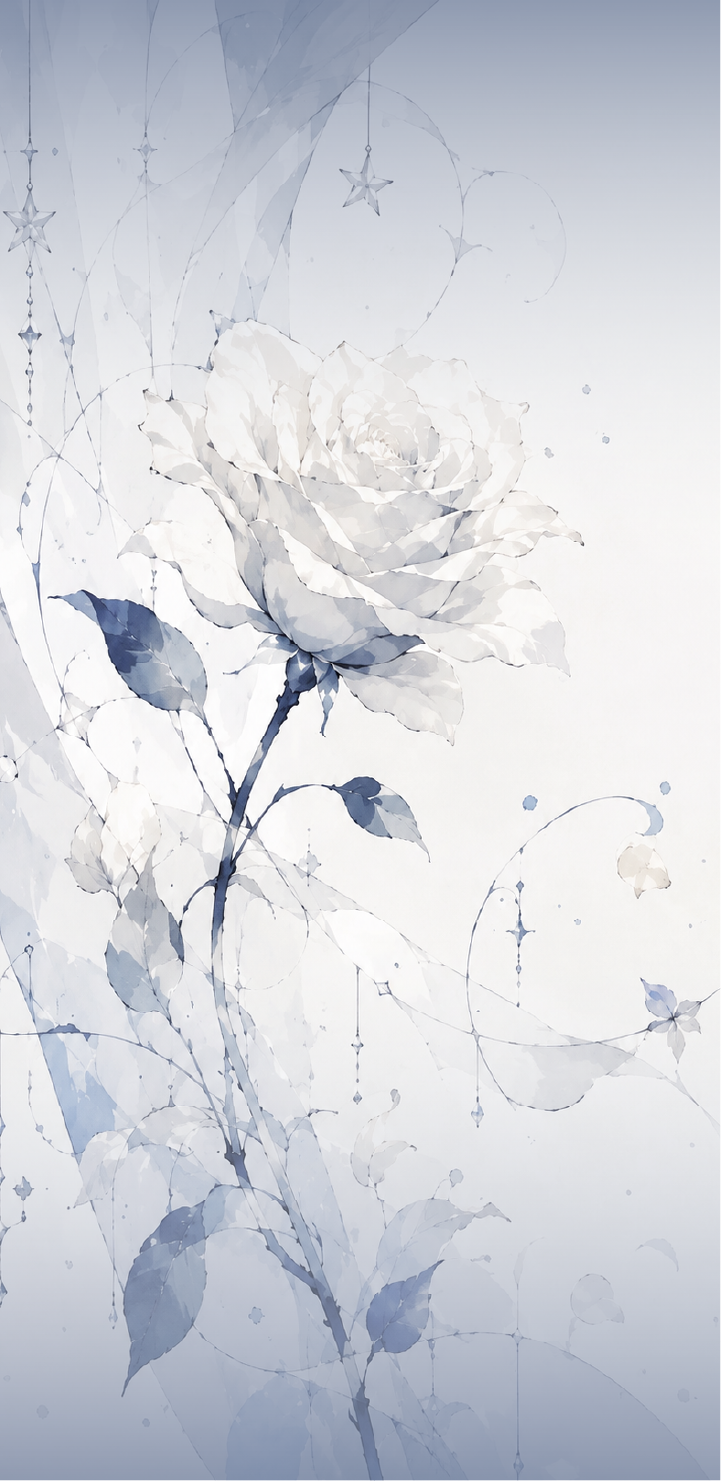
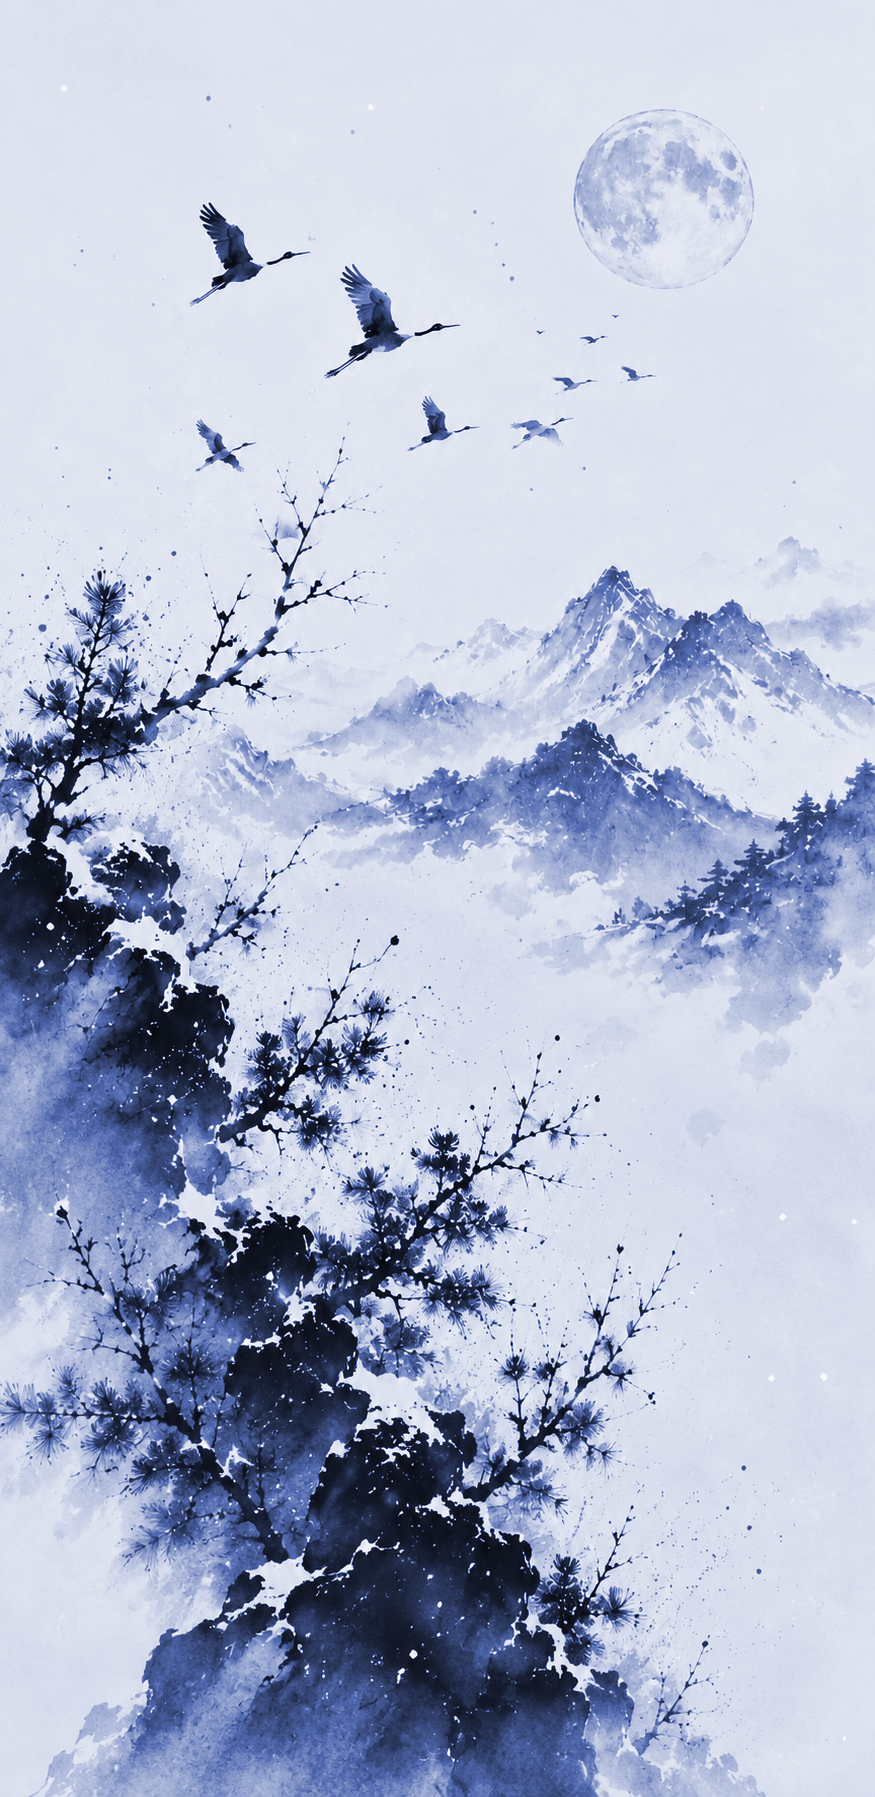
feat: refine EPUB layout and Windows packaging

diff --git a/src/ui-b/ui-b.css b/src/ui-b/ui-b.css
@@ -236,12 +236,12 @@
 .ui-b .empty-shelf:hover { border-color: var(--b-accent); background: var(--b-surface); }
 
 /* Reader workspace */
-.ui-b .reader-view { background: transparent; color: var(--b-ink); grid-template-rows: 54px minmax(0, 1fr); }
+.ui-b .reader-view { --reader-toolbar-height: 54px; background: transparent; color: var(--b-ink); grid-template-rows: minmax(var(--reader-toolbar-height), var(--reader-toolbar-height)) minmax(0, 1fr); }
 /* 沉浸模式工具栏不渲染，阅读区必须占满唯一一行；
    否则会沿用上面的 54px 首行，正文被压成顶部一条矮条（全屏文字消失的病根）。 */
 .ui-b .reader-view.is-immersive { grid-template-rows: minmax(0, 1fr); }
 .ui-b .reader-view.theme-paper, .ui-b .reader-view.theme-sage, .ui-b .reader-view.theme-night { --reader-bg: transparent; background: transparent; }
-.ui-b .reader-toolbar { grid-template-columns: minmax(0, 1fr) minmax(160px, 2fr) minmax(0, 1fr); padding: 0 18px; border-bottom-color: var(--b-line); background: var(--b-shell); color: var(--b-ink-2); backdrop-filter: blur(18px); -webkit-backdrop-filter: blur(18px); }
+.ui-b .reader-toolbar { height: var(--reader-toolbar-height); min-height: var(--reader-toolbar-height); max-height: var(--reader-toolbar-height); grid-template-columns: minmax(0, 1fr) minmax(160px, 2fr) minmax(0, 1fr); padding: 0 18px; overflow: visible; flex-shrink: 0; border-bottom-color: var(--b-line); background: var(--b-shell); color: var(--b-ink-2); backdrop-filter: blur(18px); -webkit-backdrop-filter: blur(18px); }
 .ui-b .book-heading strong { color: var(--b-ink); font: 650 13px/1.4 sans-serif; }
 .ui-b .book-heading span { color: var(--b-ink-3); }
 .ui-b .toolbar-button { color: var(--b-ink-2); }
@@ -249,14 +249,14 @@
 .ui-b .toolbar-button.active { background: var(--b-accent-soft); color: var(--b-accent); }
 
 @media (min-width: 1000px) {
-  .ui-b .reader-view:not(.is-immersive) { grid-template-rows: 58px minmax(0, 1fr); }
+  .ui-b .reader-view:not(.is-immersive) { --reader-toolbar-height: 58px; }
   .ui-b .reader-actions { --reader-icon-size: 20px; --reader-action-step: 30px; }
   .ui-b .reader-toolbar .toolbar-button { height: 38px; }
   .ui-b .book-heading strong { font-size: 14px; }
 }
 
 @media (min-width: 1280px) {
-  .ui-b .reader-view:not(.is-immersive) { grid-template-rows: 62px minmax(0, 1fr); }
+  .ui-b .reader-view:not(.is-immersive) { --reader-toolbar-height: 62px; }
   .ui-b .reader-actions { --reader-icon-size: 22px; --reader-action-step: 33px; }
   .ui-b .reader-toolbar .toolbar-button { height: 40px; }
   .ui-b .book-heading strong { font-size: 15px; }
@@ -746,8 +746,8 @@
 @font-face { font-family: "Moyu Source Han Serif"; src: url("./assets/dark-shelf/SourceHanSerifCN-Bold.otf") format("opentype"); font-weight: 600; font-display: swap; }
 @font-face { font-family: "Moyu Source Han Serif"; src: url("./assets/dark-shelf/SourceHanSerifCN-Bold.otf") format("opentype"); font-weight: 700; font-display: swap; }
 
-.ui-b.has-designed-titlebar { grid-template-rows: 33.601331px minmax(0, 1fr); }
-.ui-b.has-designed-titlebar .window-bar { height: 33.601331px; padding-left: 18px; grid-template-columns: 1fr auto; border: 0; background: rgba(28,43,72,.94); box-shadow: 0 3px 0 #1c2b48; color: #e8ecef; backdrop-filter: none; -webkit-backdrop-filter: none; }
+.ui-b.has-designed-titlebar { --designed-titlebar-height: 33.601331px; grid-template-rows: minmax(var(--designed-titlebar-height), var(--designed-titlebar-height)) minmax(0, 1fr); }
+.ui-b.has-designed-titlebar .window-bar { height: var(--designed-titlebar-height); min-height: var(--designed-titlebar-height); max-height: var(--designed-titlebar-height); padding-left: 18px; overflow: visible; flex-shrink: 0; grid-template-columns: 1fr auto; border: 0; background: rgba(28,43,72,.94); box-shadow: 0 3px 0 #1c2b48; color: #e8ecef; backdrop-filter: none; -webkit-backdrop-filter: none; }
 .ui-b.has-designed-titlebar .window-bar .brand-lockup { color: #e8ecef; font: 400 13px/1 "Moyu New York", serif; letter-spacing: 0; }
 .ui-b.has-designed-titlebar .window-bar .brand-lockup svg, .ui-b.has-designed-titlebar .window-bar .brand-lockup small, .ui-b.has-designed-titlebar .window-center-actions { display: none; }
 .ui-b.has-designed-titlebar .window-actions { width: auto; border: 0; }
@@ -834,7 +834,6 @@
 .ui-b .v-spine-group .v-spine:has(+ .v-spine + .v-spine.is-reveal-left:hover),
 .ui-b .v-spine-group .v-spine:has(+ .v-spine + .v-spine.is-reveal-left:focus-visible) { opacity: 0; transform: translateY(8px) scaleY(.78); pointer-events: none; }
 .ui-b .v-spine.is-expansion-hidden { opacity: 0; transform: translateY(8px) scaleY(.78); pointer-events: none; }
-.ui-b .v-shelf-moon { width: 84px; height: 126px; margin: 0 16px -2px 0; flex: 0 0 84px; object-fit: contain; object-position: center bottom; filter: drop-shadow(1px 3px 3px rgba(0,0,0,.3)); }
 .ui-b .v-shelf-board { position: absolute; z-index: 3; right: 0; bottom: 0; left: 0; height: 8.6709px; border: 0; background: linear-gradient(180deg, #1f4b6e 0%, #ccd4e7 73.417%, #01162b 73.417%, #01162b 100%); box-shadow: none; }
 
 .ui-b .v-bottom-dock { position: absolute; z-index: 12; right: 0; bottom: 0; left: 0; height: 28.2492px; padding: 0 max(18px, calc((100% - 360px) / 2)); border: 0; display: flex; align-items: center; justify-content: center; gap: clamp(38px, 7vw, 76px); background: rgba(28,43,72,.9); backdrop-filter: blur(8px); -webkit-backdrop-filter: blur(8px); }
@@ -855,8 +854,7 @@
 .ui-b .v-empty-shelf > button { width: var(--b-empty-import-width); height: var(--b-empty-import-height); padding: 0; border: 1px solid rgba(232,236,239,.7); border-radius: 10px; background: linear-gradient(90deg, #1f4b6e, rgba(204,212,231,.1)); color: #e8ecef; font: 500 8px/1 "Moyu Source Han Serif", serif; cursor: pointer; }
 
 @media (max-width: 760px) {
-  .ui-b.has-designed-titlebar { grid-template-rows: 33.601331px minmax(0, 1fr); }
-  .ui-b.has-designed-titlebar .window-bar { height: 33.601331px; padding-left: 17px; }
+  .ui-b.has-designed-titlebar .window-bar { padding-left: 17px; }
   .ui-b.has-designed-titlebar .window-actions button { width: 29px; height: 33.601331px; }
   .ui-b.has-designed-titlebar .window-actions .keyboard-indicator { width: 34px; }
   .ui-b .v-home::before { background-image: url("./assets/dark-shelf/background-narrow.png"); background-position: center top; }
@@ -872,7 +870,6 @@
   .ui-b .v-shelf-books { right: -8px; left: -8px; width: auto; padding-inline: 16px; gap: 0; }
   .ui-b .v-face-group { gap: var(--cover-gap, 19px); }
   .ui-b .v-spine-group { gap: 5.74px; }
-  .ui-b .v-shelf-moon { width: 86px; flex-basis: 86px; margin-right: 12px; }
   .ui-b .v-shelf-board { right: -1px; left: -1px; }
   .ui-b .v-bottom-dock { height: 28.2492px; padding: 0 26px; justify-content: space-between; gap: 0; }
   .ui-b .v-dock-side { height: 28.2492px; gap: 37px; }

diff --git a/src/ui-b/VirtualBookshelfHome.jsx b/src/ui-b/VirtualBookshelfHome.jsx
@@ -11,7 +11,6 @@ import searchIcon from './assets/dark-shelf/search.svg'
 import managerDirectoryIcon from './assets/dark-shelf/manager-directory.svg'
 import managerAiIcon from './assets/dark-shelf/manager-ai.svg'
 import managerTrashIcon from './assets/dark-shelf/manager-trash.svg'
-import shelfMoon from './assets/dark-shelf/shelf-moon.png'
 import openBook from './assets/dark-shelf/open-book.svg'
 import spineNavy from './assets/dark-shelf/spine-navy-tall.svg'
 import spineBlueShort from './assets/dark-shelf/spine-blue-short.svg'
@@ -116,18 +115,13 @@ function ShelfRow({ row, progressMap, coversMap, defaultCover, onOpen, draggingC
     const update = () => {
       const styles = window.getComputedStyle(node)
       const padding = parseFloat(styles.paddingLeft) + parseFloat(styles.paddingRight)
-      const decoration = node.querySelector('.v-shelf-moon')
-      const decorationStyles = decoration ? window.getComputedStyle(decoration) : null
-      const decorationWidth = decoration
-        ? decoration.getBoundingClientRect().width + parseFloat(decorationStyles.marginLeft) + parseFloat(decorationStyles.marginRight)
-        : 0
-      setWidth(Math.max(160, node.clientWidth - padding - decorationWidth))
+      setWidth(Math.max(160, node.clientWidth - padding))
     }
     update()
     const observer = new ResizeObserver(update)
     observer.observe(node)
     return () => observer.disconnect()
-  }, [row.decorated])
+  }, [])
 
   const layout = useMemo(() => layoutShelfBooks(row.books, width), [row.books, width])
 
@@ -173,7 +167,7 @@ function ShelfRow({ row, progressMap, coversMap, defaultCover, onOpen, draggingC
   }
 
   return (
-    <section className={`v-shelf-row ${row.decorated ? 'is-decorated' : ''} ${expandedFaceId ? 'has-expanded-face' : ''} ${draggingCategory === row.key ? 'is-dragging' : ''} ${dropClass}`} style={shelfStyle} onDragOver={canDrag ? (event) => onDragOver(event, row.key) : undefined} onDrop={canDrag ? (event) => onDrop(event, row.key) : undefined}>
+    <section className={`v-shelf-row ${expandedFaceId ? 'has-expanded-face' : ''} ${draggingCategory === row.key ? 'is-dragging' : ''} ${dropClass}`} style={shelfStyle} onDragOver={canDrag ? (event) => onDragOver(event, row.key) : undefined} onDrop={canDrag ? (event) => onDrop(event, row.key) : undefined}>
       <header className="v-shelf-heading">
         <strong
           className={canDrag ? 'is-draggable' : ''}
@@ -191,7 +185,6 @@ function ShelfRow({ row, progressMap, coversMap, defaultCover, onOpen, draggingC
         <button onClick={() => onOpenCategory(row)}>{`全部 ${row.totalCount ?? row.books.length} 本`}<span aria-hidden="true">›</span></button>
       </header>
       <div ref={booksRef} className="v-shelf-books">
-        {row.decorated ? <img className="v-shelf-moon" src={shelfMoon} alt="" /> : null}
         <div className="v-face-group">
           {layout.covers.map((book) => <FaceBook key={book.id} book={book} customCover={coversMap[book.id]} defaultCover={defaultCover} progress={progressMap[book.id]?.percent} onOpen={onOpen} expanded={expandedFaceId === book.id} onActivate={setExpandedFaceId} />)}
         </div>
@@ -257,7 +250,7 @@ export default function VirtualBookshelfHome({ books, progressMap, statusMap, co
     const matches = (book) => !needle || `${book.title} ${book.author || ''}`.toLocaleLowerCase('zh-CN').includes(needle)
     const result = []
     const recent = recentBookIds.map((id) => byId.get(id)).filter(Boolean).filter(matches)
-    if (recent.length) result.push({ key: 'recent', label: '最近在读', managementKey: 'recent', books: recent, totalCount: recent.length, decorated: true })
+    if (recent.length) result.push({ key: 'recent', label: '最近在读', managementKey: 'recent', books: recent, totalCount: recent.length })
     const all = books.filter(matches)
     if (all.length) result.push({ key: 'all', label: '全部', managementKey: 'all', books: all, totalCount: books.length })
     const unreadAll = books.filter((book) => getStatus(book, progressMap, statusMap) === 'unread')

diff --git a/src/components/EpubReader.jsx b/src/components/EpubReader.jsx
@@ -40,16 +40,47 @@ function applyRenditionSettings(rendition, settings) {
       color: `${textColor} !important`,
       'background-color': 'transparent !important',
     },
-    p: {
+    'p, div.para, div.paragraph, div[class~="para"], div[class~="paragraph"]': {
       'font-weight': '400 !important',
       'margin-top': '0 !important',
+      'margin-right': '0 !important',
       'margin-bottom': `${settings.paragraphGap}px !important`,
+      'margin-left': '0 !important',
+      'padding-left': '0 !important',
+      'padding-right': '0 !important',
+      'text-indent': '2em !important',
       'text-align': 'justify !important',
+      'text-align-last': 'left !important',
+      'text-justify': 'inter-ideograph !important',
+      'overflow-wrap': 'break-word !important',
+      'word-break': 'normal !important',
     },
     'h1, h2, h3, h4, h5, h6': {
       'font-family': `${fontFamily} !important`,
       'font-weight': '700 !important',
       'line-height': '1.45 !important',
+      'text-indent': '0 !important',
+      'text-align': 'left !important',
+      'text-align-last': 'left !important',
+      'page-break-after': 'avoid !important',
+      'break-after': 'avoid !important',
+    },
+    'h1, h2, p.title, div.title, .chapter-title, .chapter_title, .chaptertitle': {
+      'font-family': `${fontFamily} !important`,
+      'font-size': '1.55em !important',
+      'font-weight': '700 !important',
+      'line-height': '1.45 !important',
+      'margin-top': '0 !important',
+      'margin-right': '0 !important',
+      'margin-bottom': '1.5em !important',
+      'margin-left': '0 !important',
+      'padding-left': '0 !important',
+      'padding-right': '0 !important',
+      'text-indent': '0 !important',
+      'text-align': 'left !important',
+      'text-align-last': 'left !important',
+      'page-break-after': 'avoid !important',
+      'break-after': 'avoid !important',
     },
     'strong, b': { 'font-weight': '700 !important' },
   })
